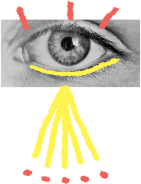
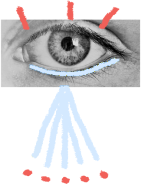
Changed images and background

Changed region(s): [[0.227, 0.462, 0.7092, 0.9239], [0.1986, 0.2989, 0.8511, 0.4348]]

diff --git a/index.html b/index.html
@@ -10,11 +10,11 @@
 <body>
 	<div id="vision-board">
 		<div class="block small-block light-bg">
-			<p><span class="highlight">Grow</span></p>
+			<p><span class="highlight-1">Grow</span></p>
 			<p>Learn to Design &amp;<br><strong>Code Websites</strong></p>
 		</div>
 		<div class="block small-block center">
-			<img src="img/flower.png" alt="flower">
+			<img src>
 		</div>
 		<div class="block small-block center light-bg">
 			<p>
@@ -22,11 +22,12 @@
 				CSS<br>
 				JavaScript<br>
 				WordPress<br>
-				Python
+				Python<br>
+				Ruby
 			</p>
 		</div>
 		<div class="block large-block">
-			<p><span class="highlight">Freelance</span></p>
+			<p><span class="highlight-2">Freelance</span></p>
 			<p>Make Enough Side Cash to<br><strong>Pay off debt</strong></p>
 			<img src="img/piggy.png" alt="piggy bank">
 		</div>
@@ -36,22 +37,22 @@
 		</div>
 		<div class="block large-block right">
 			<img src="img/plane.png" alt="plane">
-			<p><span class="highlight">Travel</span></p>
+			<p><span class="highlight-2">Travel</span></p>
 			<p>Plan A Trip Where I Can<br><strong>Work Remotely</strong></p>
 		</div>
 		<div class="block small-block top-padding center light-bg">
 			<p>
-				Walk Dog ++<br>
+				Write another article<br>
 				Meditate<br>
 				Yoga<br>
-				Snuggle Pup
+				Eat Healthy
 			</p>
 		</div>
 		<div class="block small-block top-padding center">
-			<img src="img/doggo.png" alt="dog">
+			<img src>
 		</div>
 		<div class="block small-block right light-bg">
-			<p><span class="highlight">Mind &amp; Body</span></p>
+			<p><span class="highlight-1">Mind &amp; Body</span></p>
 			<p>Exercise More<br>&amp; Find Zen in<br><strong>Challenge</strong></p>
 		</div>
 	</div>

diff --git a/css/main.css b/css/main.css
@@ -1,15 +1,11 @@
 /****** Base Styles ******/
 
-body {
-	background: #E8E8E8;
-}
-
 #vision-board {
 	margin: 50px auto;
 	width: 1200px;
 	height: 850px;
 	overflow: auto;
-	background: url('../img/background.png');
+	background: url('../img/blue-pattern.png');
 	background-size: cover;
 	font-family: 'Montserrat', sans-serif;
 	font-size: 18px;
@@ -51,13 +47,19 @@ body {
 }
 
  .light-bg {
-	background: #FFFFFF;
+	background: #D8D8D8;
 }
 
 
- .highlight {
+ .highlight-1 {
 	padding: 5px 15px;
-	background: #FFF44F;
+	background: #9fbfdf;
+	font-size: 18px;
+}
+
+.highlight-2 {
+	padding: 5px 15px;
+	background: #D8D8D8;
 	font-size: 18px;
 }
 
@@ -78,6 +80,6 @@ body {
 }
 
  .top-padding {
- 	padding-top: 40
+ 	padding-top: 40px;
 
 
